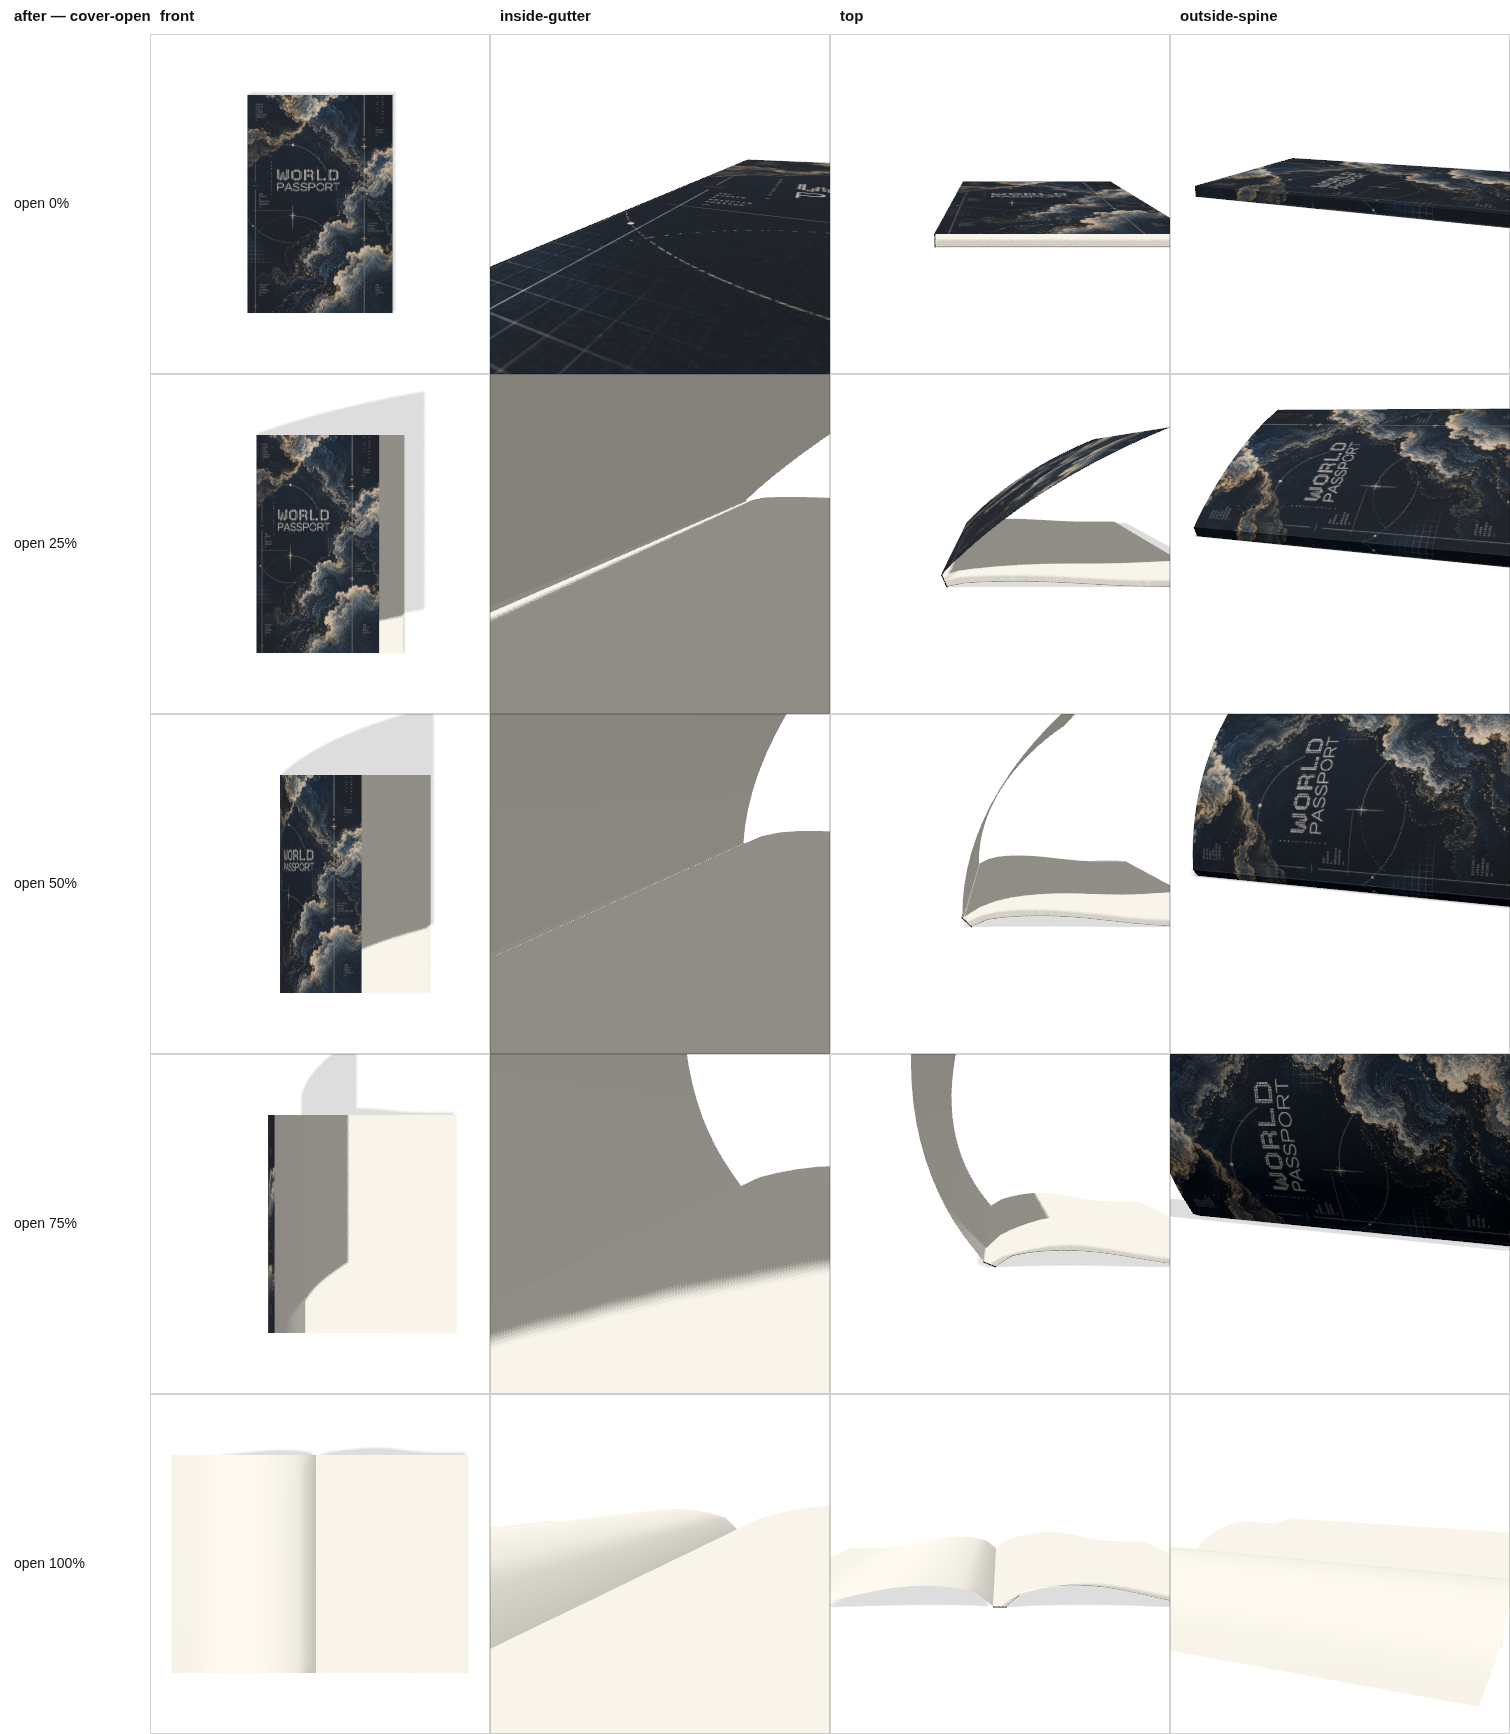
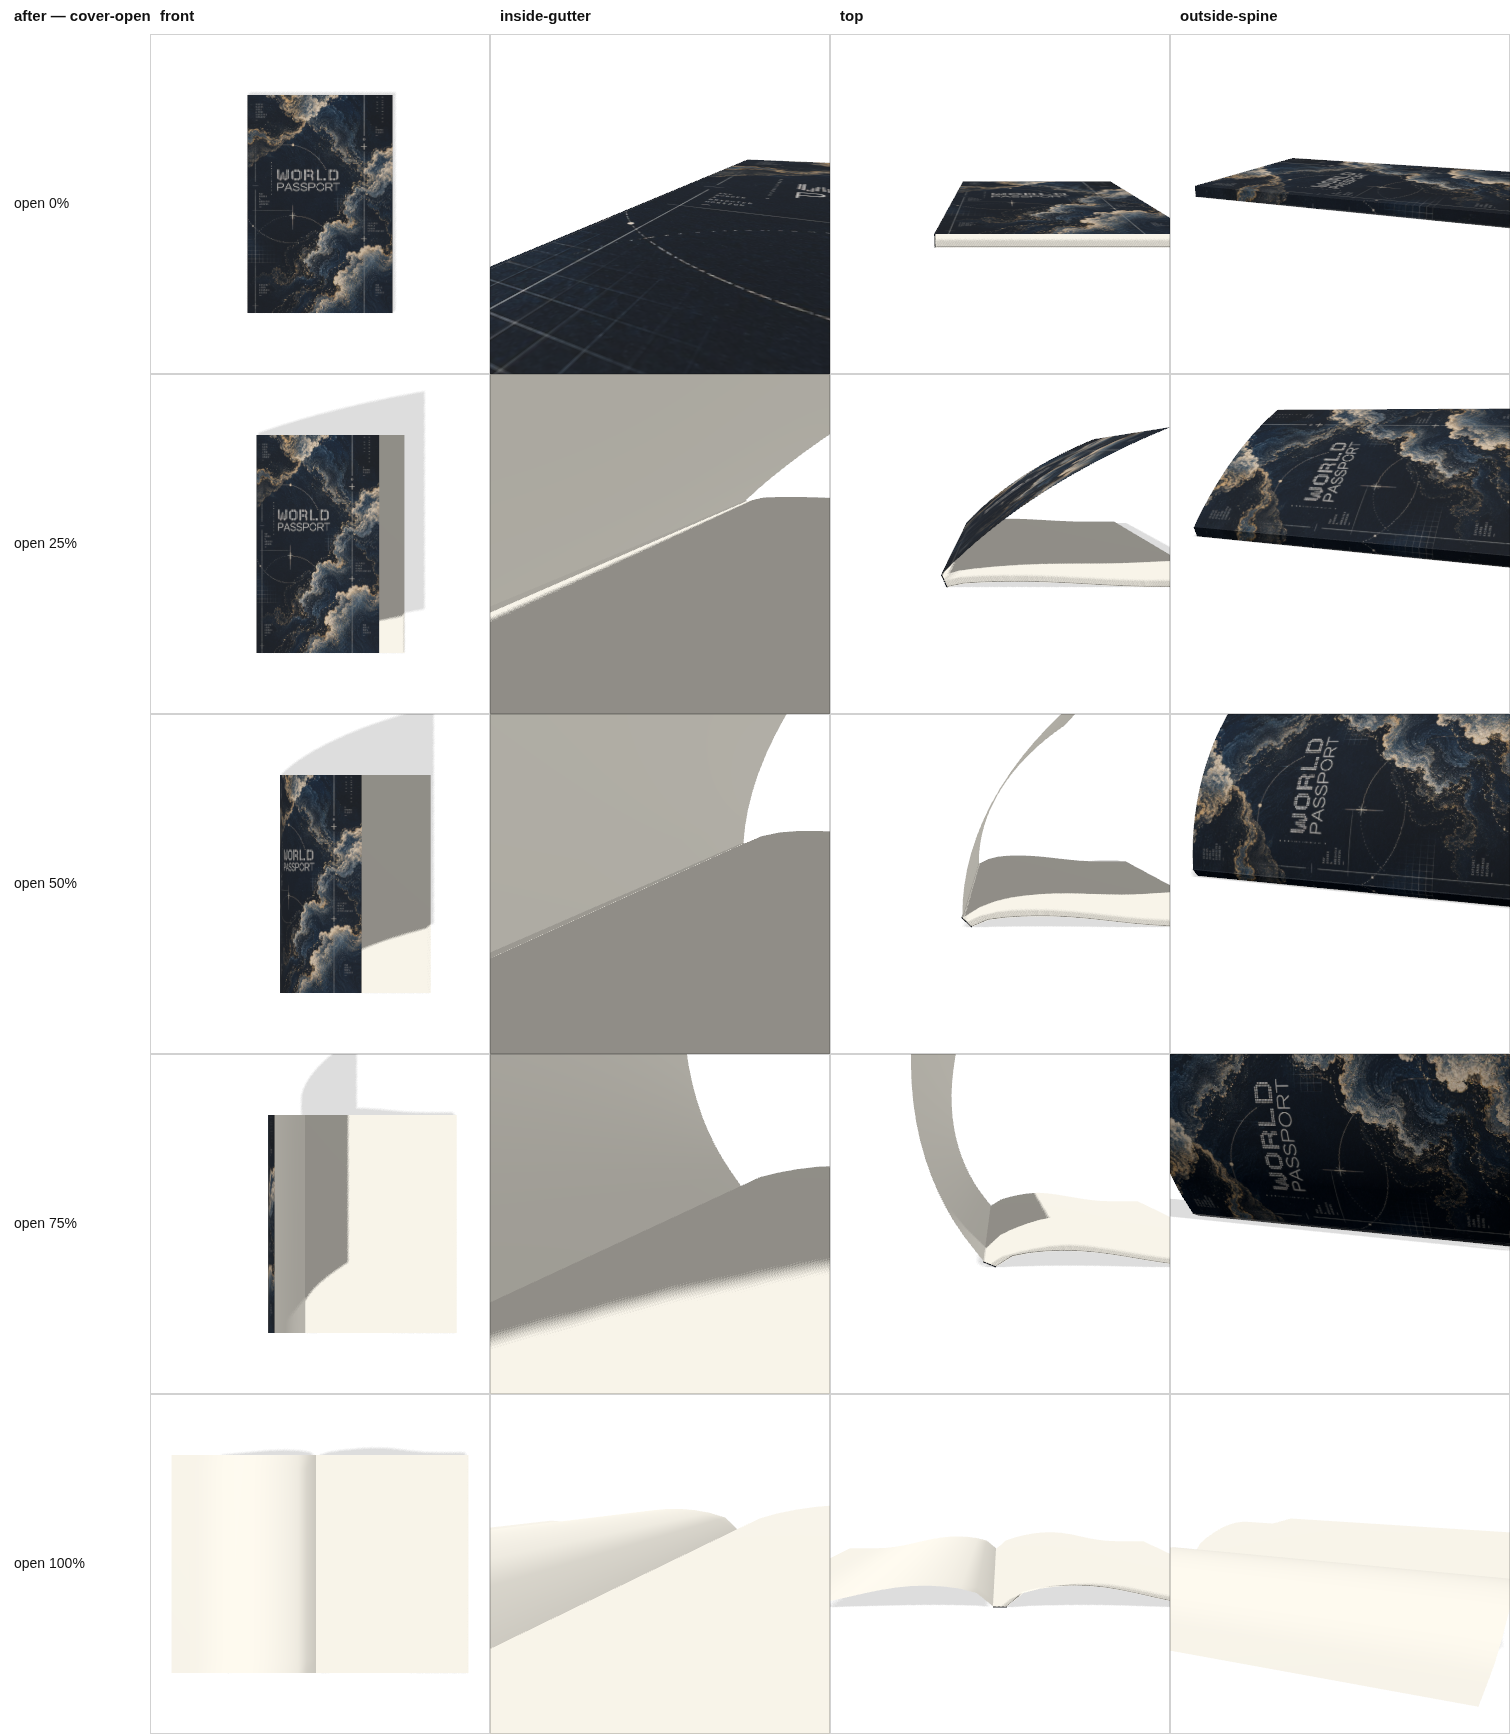
fix(scene): a sheet standing mid-turn no longer reads as shadowed
Fix 4 of 4. Not a shadow: disabling castShadow on all ninety leaves changes
the frame by nothing. A sheet standing up mid-turn shows the viewer the face
pointing away from the key light, and with only the hemisphere reaching it
that face lands at flat mid-grey — which reads as a shadow lying on the page
when nothing is casting one.

Added a bounce: a dim directional below the horizon, opposite the key. Below
the horizon is what makes it safe — every up-facing surface has n·L < 0 and
takes nothing from it. The closed book is pixel-for-pixel unchanged, verified
by differencing the rendered closed state against the pre-fill baseline: max
delta 0 on every channel, at fill 0.8 and also at 1.4 and 2.0. It casts
nothing, so no new shadows anywhere.

Fix 3 (back cover not closing) needed no further change — it was the same
root cause as fix 1 and went with it. Verified rather than assumed: at
progress 91 both covers and the whole block are flat at y = -0.0328, and at
45 and 90 the block's top (0.0382) stays above both covers (0.0215), so
nothing pokes through. A full 0 -> 91 -> 0 round trip returns the block to
its closed extent to within 0 in both directions, so nothing is left
half-deformed by the memoisation.

Tests 51/51, build clean. Invariants unchanged: 8 of 9, with #6's five
grazing rays at openAmount 0.4 as reported before.

diff --git a/src/main.js b/src/main.js
@@ -86,6 +86,18 @@ const rimLight = new THREE.PointLight("#ffffff", 0.45, 8, 2);
 rimLight.position.set(2.5, 1.8, -2.4);
 scene.add(rimLight);
 
+// Bounce. A sheet standing up mid-turn shows the viewer the face pointing away
+// from the key, and with only the hemisphere reaching it that face renders as
+// flat mid-grey — it reads as a shadow lying on the page when nothing is
+// casting one. This sits below the horizon and opposite the key, so it can
+// only reach faces the key cannot: every up-facing surface has n·L < 0 and
+// takes nothing from it, and the closed book is pixel-for-pixel unchanged
+// (verified by differencing the rendered closed state with the fill at 0, 0.8,
+// 1.4 and 2.0 — zero on every channel). It casts nothing.
+const fillLight = new THREE.DirectionalLight("#ffffff", 0.8);
+fillLight.position.set(2.6, -1.4, -2.5);
+scene.add(fillLight);
+
 const table = new THREE.Mesh(
   new THREE.PlaneGeometry(18, 18),
   // ShadowMaterial only ever darkens the shadowed area and is otherwise fully
